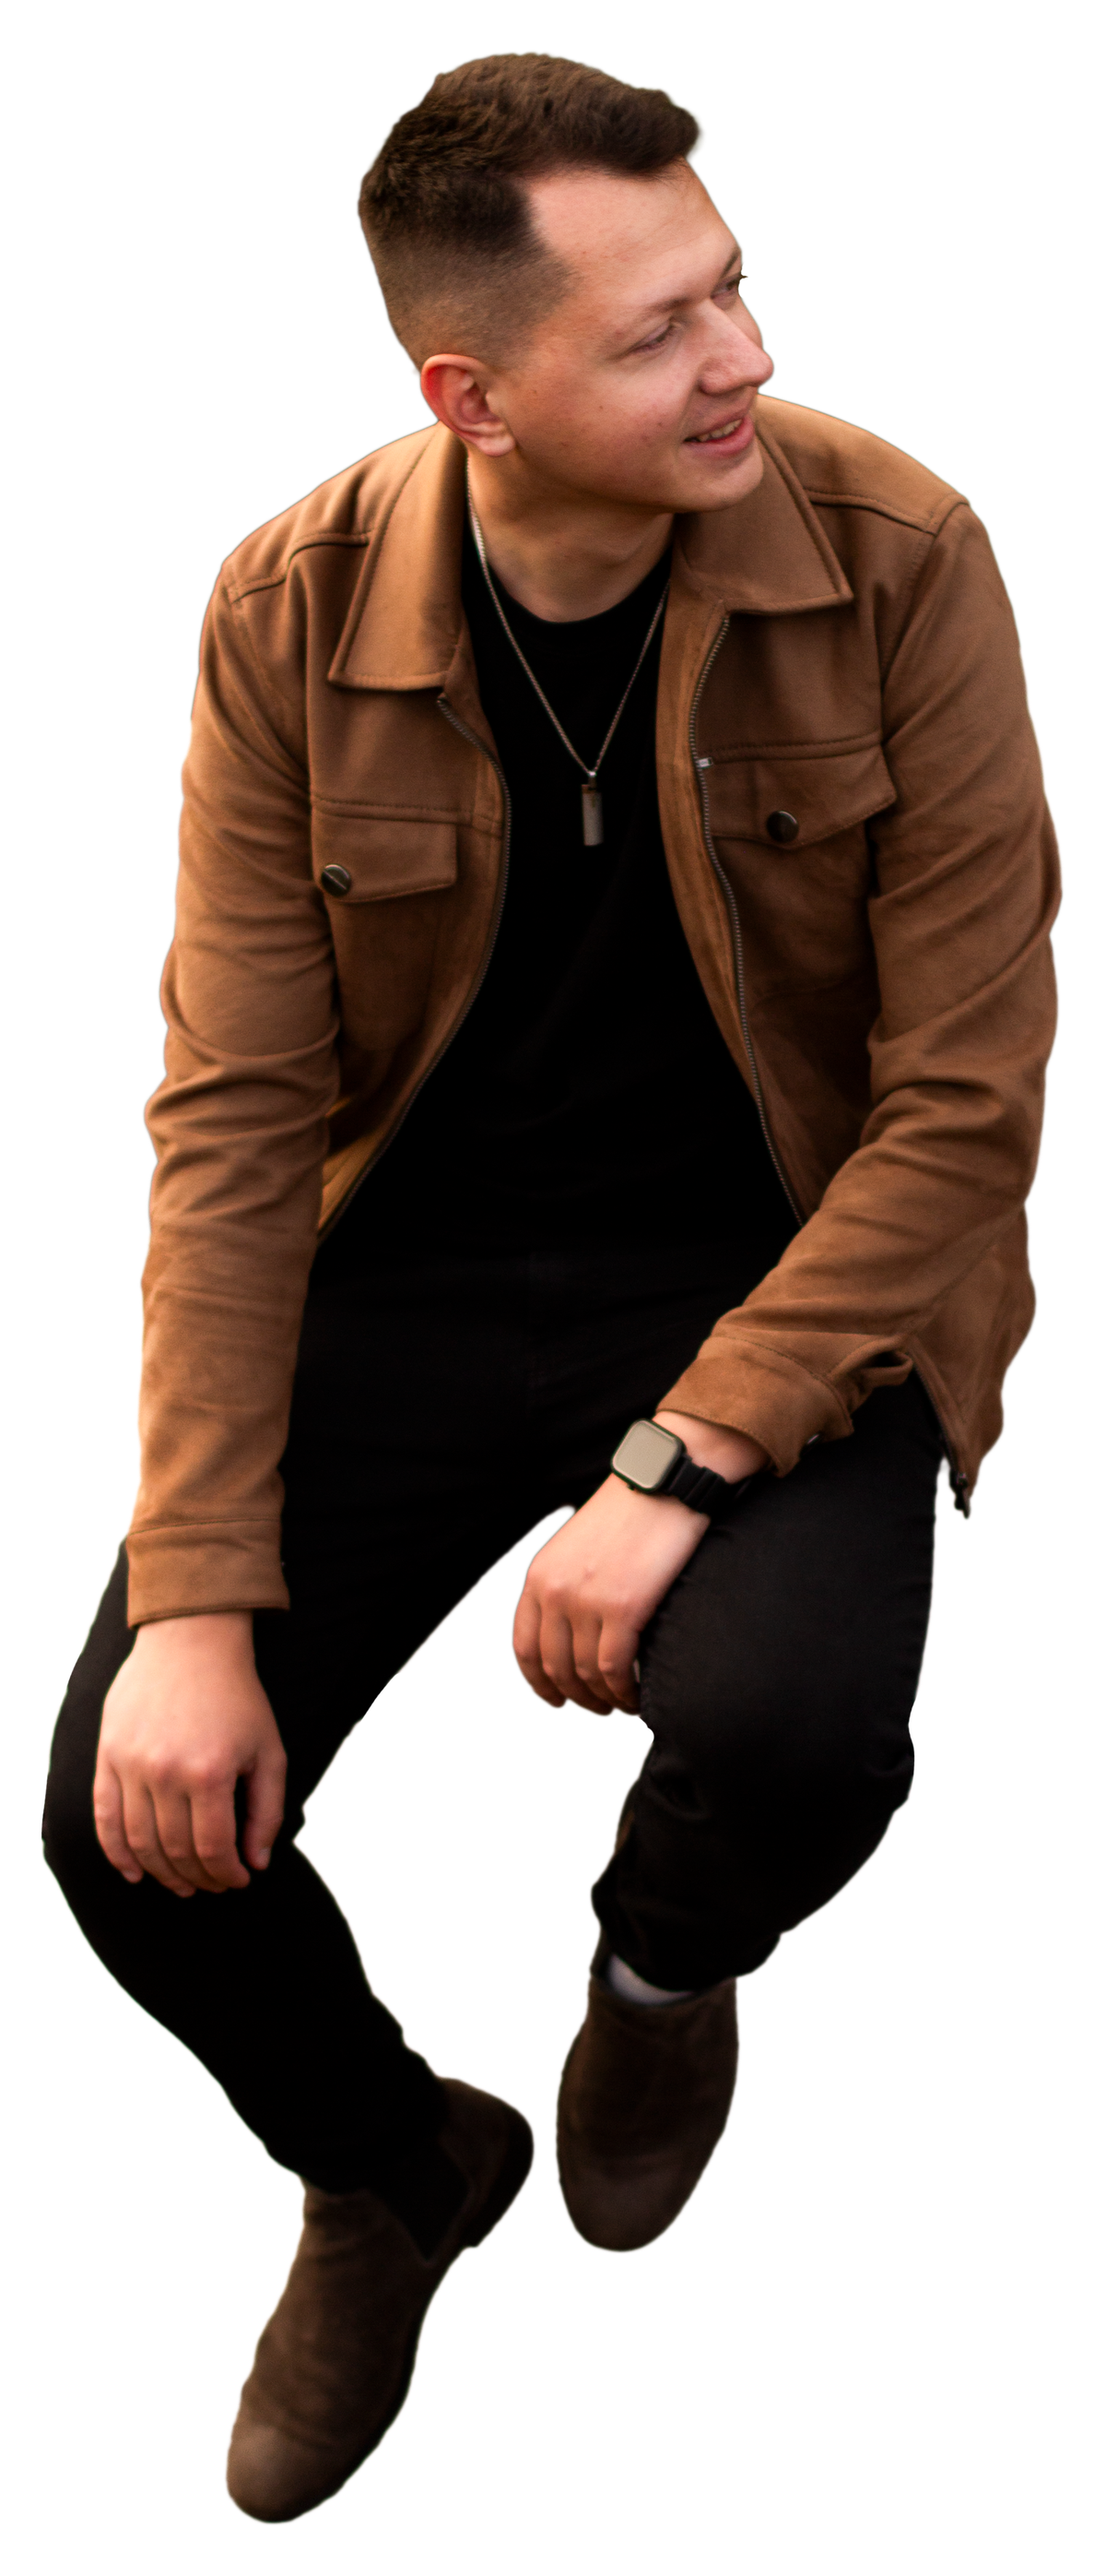
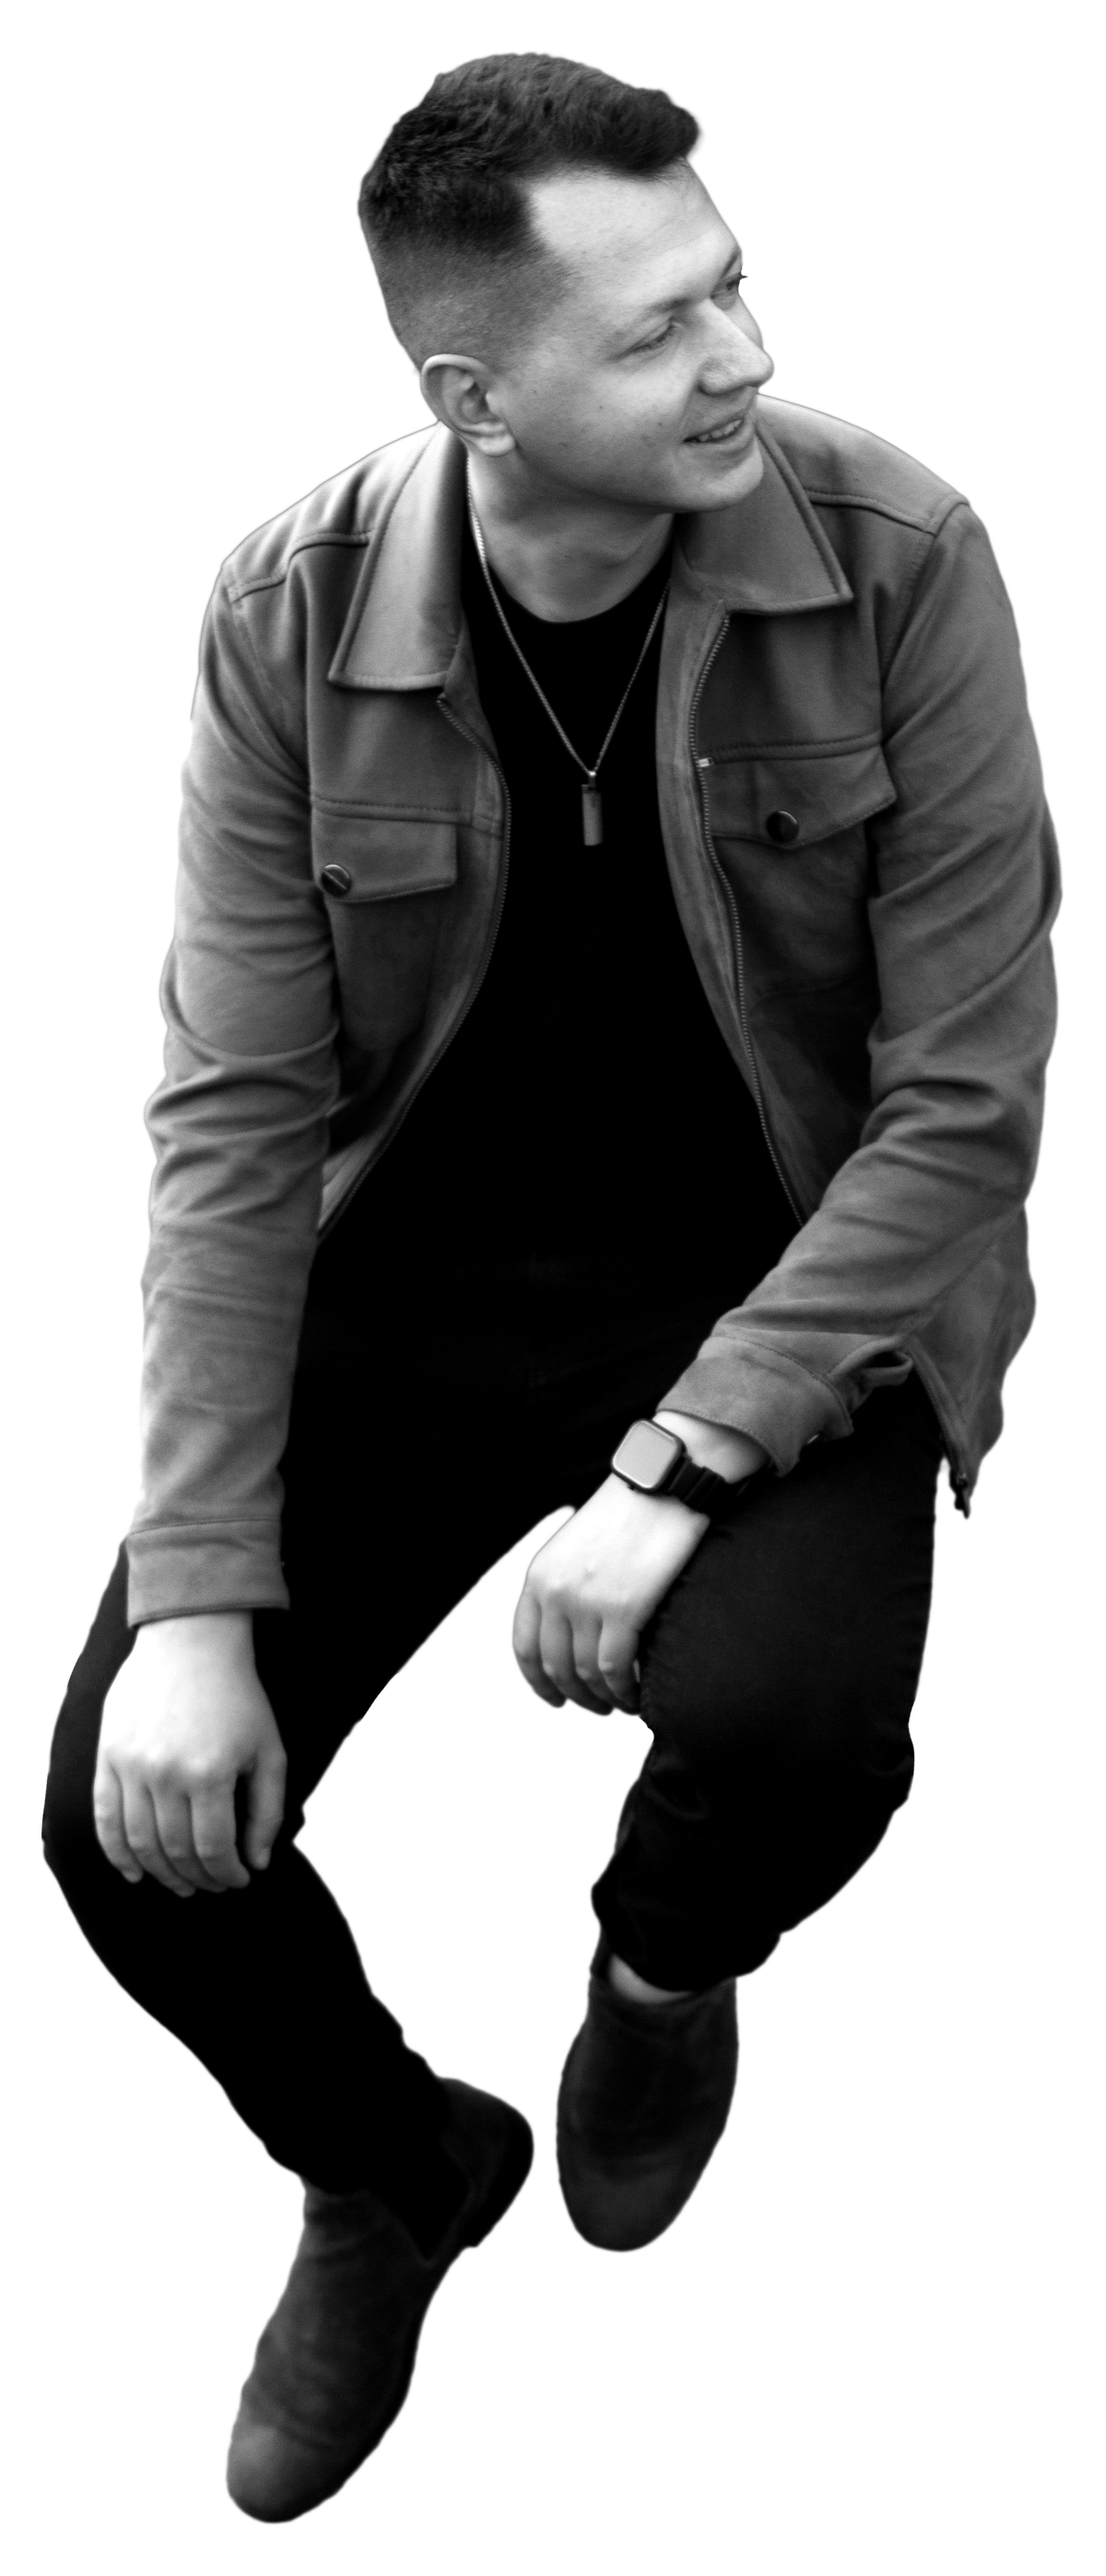
New black and white hero photo and seat shadow under the figure

diff --git a/index.html b/index.html
@@ -111,6 +111,9 @@ body::after{content:"";position:fixed;inset:0;pointer-events:none;z-index:90;opa
 .arch-text{position:absolute;left:-22.22%;top:-14.67%;width:144.44%;height:106.33%;overflow:visible;pointer-events:none;}
 .arch-text .ch{animation:chIn .3s ease both}
 .arch-text text{font-family:var(--display);font-size:6.2px;text-transform:uppercase;fill:none;stroke:rgba(252,222,156,.85);stroke-width:.2}
+.seat-shadow{position:absolute;z-index:1;left:50%;bottom:-2.2%;width:70%;height:11%;transform:translateX(-47%);pointer-events:none;
+  background:radial-gradient(ellipse 50% 50% at 50% 55%,rgba(0,0,0,.72) 0%,rgba(0,0,0,.45) 38%,rgba(0,0,0,0) 72%);filter:blur(7px);animation:fadeIn 1.2s ease 1.5s both}
+.seat-shadow::after{content:"";position:absolute;left:14%;right:14%;top:34%;height:30%;border-radius:50%;background:radial-gradient(ellipse at 50% 50%,rgba(0,0,0,.6),rgba(0,0,0,0) 70%);filter:blur(3px)}
 .hero-fig{position:absolute;z-index:2;left:0;right:0;margin-inline:auto;bottom:-35%;height:121%;width:auto;max-width:none;filter:drop-shadow(0 18px 40px rgba(0,0,0,.5));animation:rise 1.5s var(--ease) .55s both}
 .hero-name{font-family:"BazaART",var(--display);text-transform:none;position:absolute;z-index:3;left:50%;top:62%;transform:translateX(-50%);margin:0;font-weight:400;font-size:min(calc(var(--H)*.42),15vw);line-height:.9;text-align:center;white-space:nowrap;pointer-events:none;background:linear-gradient(180deg,#f8ecd6 0%,#f3dca1 45%,#eba94b 100%);-webkit-background-clip:text;background-clip:text;color:transparent;-webkit-text-fill-color:transparent;filter:drop-shadow(0 6px 26px rgba(1,17,10,.45));animation:nameIn 1.7s var(--ease) .95s both}
 .hero-name{padding:.04em .06em .24em}
@@ -123,10 +126,11 @@ body::after{content:"";position:fixed;inset:0;pointer-events:none;z-index:90;opa
 @keyframes archIn{from{opacity:0;transform:translateY(80px) scale(.86)}to{opacity:1;transform:none}}
 @keyframes chIn{from{stroke-opacity:0}to{stroke-opacity:.85}}
 @keyframes nameIn{from{opacity:0;transform:translateX(-50%) translateY(46px);clip-path:inset(0 0 100% 0)}to{opacity:1;transform:translateX(-50%);clip-path:inset(-40% -10% -70% -10%)}}
+@keyframes fadeIn{from{opacity:0}to{opacity:1}}
 @keyframes fadeUp{from{opacity:0;transform:translateY(26px)}to{opacity:1;transform:none}}
 @keyframes navIn{from{opacity:0;transform:translateY(-16px)}to{opacity:1;transform:none}}
 /* hero parallax: scroll depth (JS sets --py) */
-.arch,.arch-text{translate:0 calc(var(--py,0)*.16px)}
+.arch,.arch-text,.seat-shadow{translate:0 calc(var(--py,0)*.16px)}
 .hero-fig{translate:0 calc(var(--py,0)*.07px)}
 .hero-name{translate:0 calc(var(--py,0)*-.03px)}
 .hero-copy{translate:0 calc(var(--py,0)*.05px)}
@@ -398,6 +402,7 @@ footer{font-family:var(--text);margin-top:clamp(70px,10vw,140px);padding-top:26p
       <div class="arch" aria-hidden="true"></div>
       <svg class="arch-text" viewBox="-16 -16 104 116" aria-hidden="true"><path id="arcp" d="M-7,72 L-7,36 A43,43 0 0 1 79,36 L79,72" fill="none"/><text><textPath href="#arcp" startOffset="50%" text-anchor="middle" textLength="178" lengthAdjust="spacing" data-uk="Художник · Experience-дизайнер · Креативний ментор">Artist · Experience Designer · Creative Mentor</textPath></text></svg>
       <h1 class="hero-name display" translate="no">Max <i>Vitvitskiy</i></h1>
+      <div class="seat-shadow" aria-hidden="true"></div>
       <img class="hero-fig" src="img/hero.png" alt="Max Vitvitskiy" width="1200" height="2793" fetchpriority="high">
     </div>
     <div class="hero-copy">
